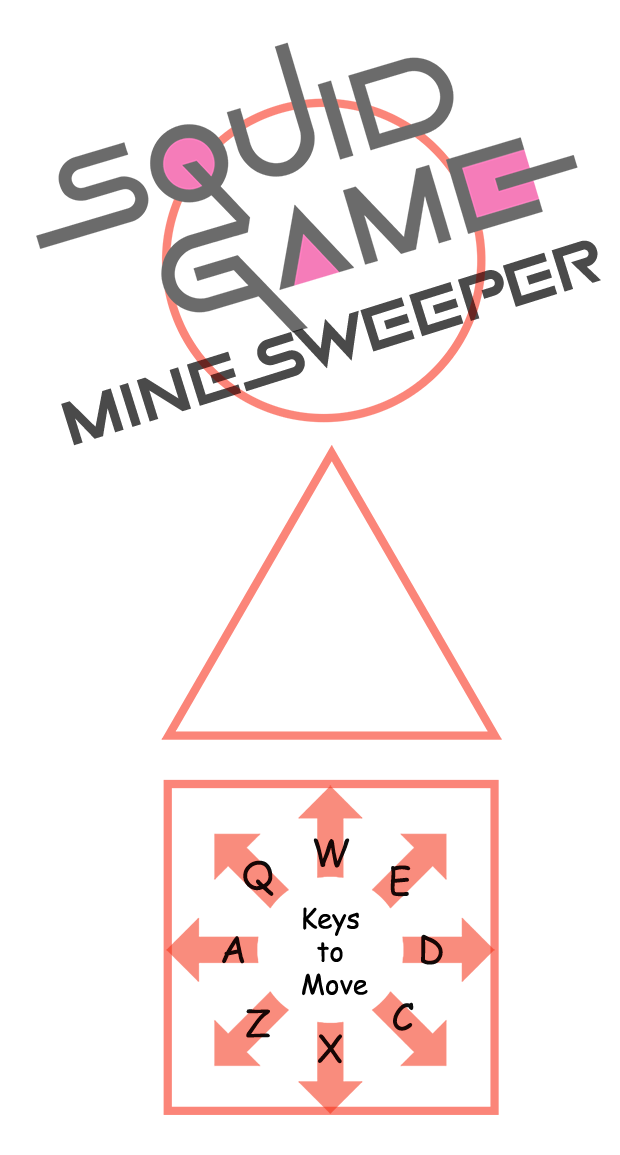
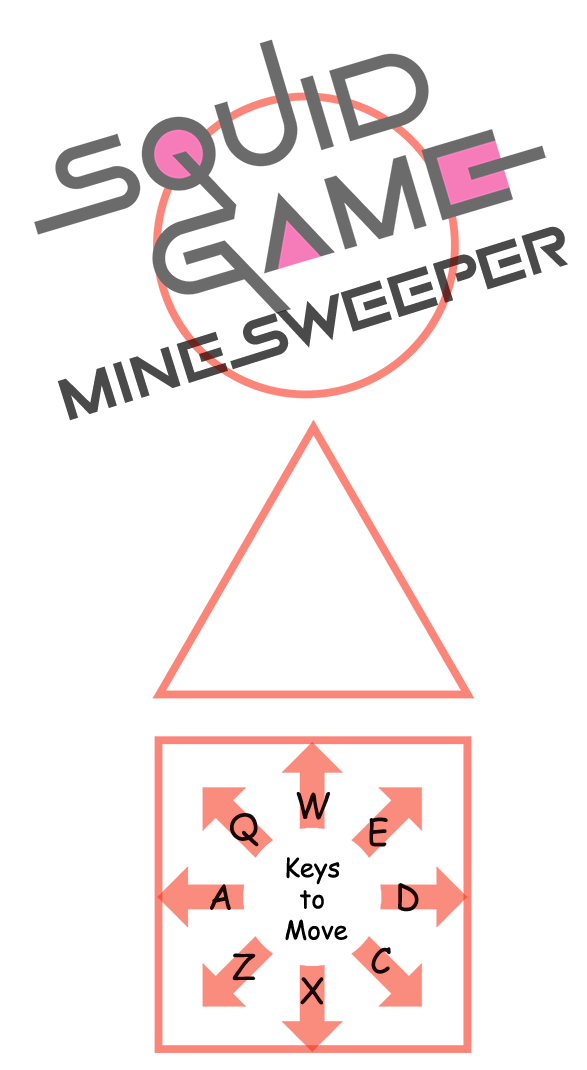
added restart button and changed color of left popup panel

Changed region(s): [[0.0613, 0.0617, 0.9813, 0.9869], [0.7053, 0.0617, 0.7359, 0.0925], [0.3986, 0.4935, 0.4293, 0.5243]]

diff --git a/styleMainPage.css b/styleMainPage.css
@@ -1,5 +1,5 @@
 body {
-    zoom:50%;
+    zoom:55%;
     display: block;
     margin: 0px;
     background-image: url("images/bluetilebackground.png");
@@ -15,8 +15,8 @@ body {
 }
 
 .squidgame-left-panel {
-    height: 1155px;
-    width: 620px;
+    height: 1070px;
+    width: 587px;
     /*border: 1px solid black;*/
     background: url("images/SquidGameLeftPanel.png")
       0px 0px;
@@ -27,6 +27,27 @@ body {
     margin-right:30px;
     transition: top 1.5s ease, left 1.5s ease;
     text-align: bottom;
+    font-family:'Trebuchet MS', 'Lucida Sans Unicode', 'Lucida Grande', 'Lucida Sans', Arial, sans-serif
+}
+
+.main-page-restart-button {
+    color: white;
+    height:50px;
+    margin-left:10px;
+    padding-left:20px;
+    padding-right:20px;
+    font-size:25px;
+    font-family: 'Trebuchet MS', 'Lucida Sans Unicode', 'Lucida Grande', 'Lucida Sans', Arial, sans-serif;
+    background-color: black;
+    cursor:pointer;
+}
+
+.main-page-restart-button:hover {
+    color: white;
+    font-size:30px;
+    font-family: 'Trebuchet MS', 'Lucida Sans Unicode', 'Lucida Grande', 'Lucida Sans', Arial, sans-serif;
+    background-color: black;
+    opacity:50%;
 }
 
 .game-components-container {
@@ -308,13 +329,13 @@ cursor: pointer;
 
 /* The sidepanel menu */
 .sidepanel {
-    height: 650px; /* Specify a height */
+    height: 680px; /* Specify a height */
     width: 0; /* 0 width - change this with JavaScript */
     position: fixed; /* Stay in place */
     z-index: 1; /* Stay on top */
-    top: 550px;
+    top: 350px;
     left: 0;
-    background-color: rgb(255, 255, 255); /* Black*/
+    background-color: rgba(255, 196, 176, 0.932); /* Black*/
     overflow-x: hidden; /* Disable horizontal scroll */
     padding-top: 60px; /* Place content 60px from the top */
     transition: 0.5s; /* 0.5 second transition effect to slide in the sidepanel */

diff --git a/mainPage.html b/mainPage.html
@@ -27,7 +27,7 @@
             </div>
 
             <div id="mySidepanel" class="sidepanel">
-                <a href="javascript:void(0)" class="closebtn" onclick="(function(){
+                <a class="closebtn" style="cursor:pointer" onclick="(function(){
                     document.getElementById('mySidepanel').style.width = '0';
                 })();">&times;</a>
                 <p><b>Game Instructions</b></p>
@@ -37,13 +37,19 @@
                 <p>When the player steps on a broken glass, he/she falls to their death.</p>
                 <p>You have 7 chances to make it across, when all 7 players are dead, you lose.</p>
                 <p>All the best! Their lives are in your hands.</p>
+                <p>(close this box with the 'x' on the top right)</p>
             </div>
             <button class="openbtn" onclick="(function(){
                 let sidepanel = document.getElementById('mySidepanel')
-                sidepanel.style.width = '450px';
+                sidepanel.style.width = '500px';
+                sidepanel.style.height = '680px';
                 sidepanel.style['font-size'] = '25px';
                 sidepanel.style.padding = '5px';
-            })();">&#9776; Instructions</button>
+            })();">&#9776; How to Play</button>
+            <button class="main-page-restart-button" onclick="(function(){
+                window.location.href = 'mainPage.html';
+                return false;
+            })();">Restart</button>
             </br>
 
             <audio controls autoplay>
